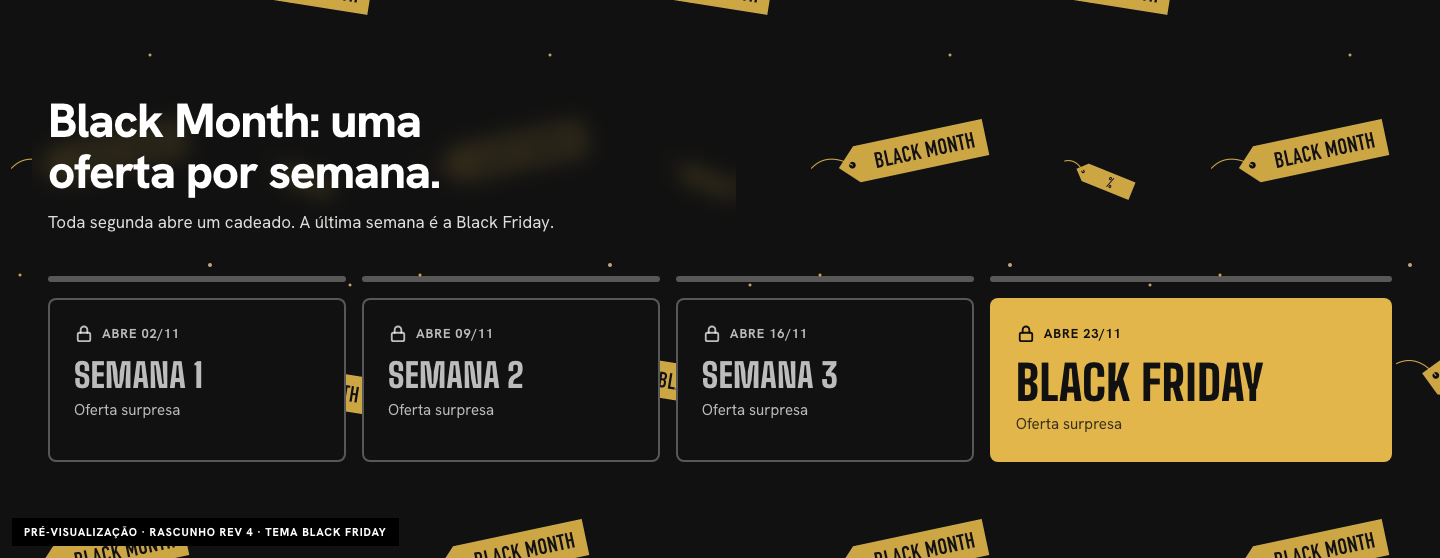
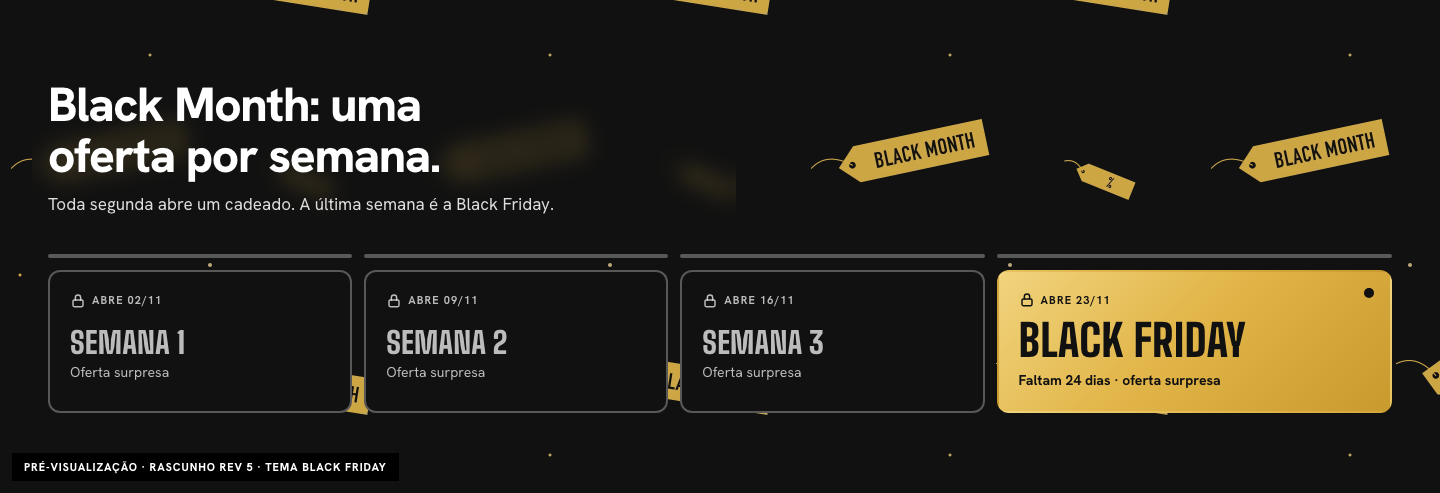
style(storefront): checkpoints mais enxutos e com acabamento premium
- Celular: só a semana em curso e a da Black Friday ficam como card completo. As semanas passadas viram uma linha com seta e
  as fechadas uma linha com o cadeado e a data. A seção caiu de ~1.400 px para 570–720 px.
- A semana em curso tem o botão cheio (a ação principal da seção) e um pulso discreto no marcador (desligado com
  prefers-reduced-motion). As semanas passadas aparecem como "Valendo", com link sublinhado.
- A Black Friday ganha o amarelo em folha (gradiente), o furo de etiqueta e a contagem de dias enquanto está fechada
  ("Faltam 13 dias · oferta surpresa").
- Desktop: espaços e títulos menores, cards de 12 px de raio, datas com números tabulares, aria-current="step" na semana
  em curso.

diff --git a/src/components/home/WeeklyCheckpoints.tsx b/src/components/home/WeeklyCheckpoints.tsx
@@ -1,4 +1,4 @@
-import type { CSSProperties } from "react";
+import type { CSSProperties, ReactNode } from "react";
 import { dayMonth, type CheckpointState } from "@/lib/site-config/checkpoints";
 
 export type CheckpointView = {
@@ -9,90 +9,179 @@ export type CheckpointView = {
   href: string | null;
   external: boolean;
   opensAt?: string;
+  /** Locked only: whole days until it opens (the countdown of the block in evidence). */
+  daysLeft?: number;
   highlight: boolean;
   state: CheckpointState;
 };
 
-/** The block in evidence (the week of Black Friday itself): the yellow of the Black Friday opening. */
+/** The yellow of the Black Friday opening: the open weeks on the bar, the week running now, the block in evidence. */
 const HIGHLIGHT = "#e2b64a";
+const NEAR_BLACK = "#111";
+/** The block in evidence: the same yellow, lit like foil (lighter at the top left, deeper at the bottom right). */
+const FOIL = "linear-gradient(135deg, #f1d47e 0%, #e2b64a 45%, #c99a2e 100%)";
 
 function Padlock({ open }: { open: boolean }) {
   return (
-    <svg aria-hidden="true" viewBox="0 0 24 24" className="h-5 w-5 shrink-0" fill="none" stroke="currentColor" strokeWidth="2.2" strokeLinecap="round" strokeLinejoin="round">
+    <svg aria-hidden="true" viewBox="0 0 24 24" className="h-4 w-4 shrink-0" fill="none" stroke="currentColor" strokeWidth="2.2" strokeLinecap="round" strokeLinejoin="round">
       <rect x="4.5" y="10.5" width="15" height="10" rx="2" />
       <path d={open ? "M8 10.5V7a4 4 0 0 1 7.6-1.7" : "M8 10.5V7a4 4 0 0 1 8 0v3.5"} />
     </svg>
   );
 }
 
+const Arrow = ({ className = "h-4 w-4" }: { className?: string }) => (
+  <svg aria-hidden="true" viewBox="0 0 24 24" className={`${className} shrink-0 transition-transform duration-200 ease-out group-hover:translate-x-0.5`} fill="none" stroke="currentColor" strokeWidth="2.4" strokeLinecap="round" strokeLinejoin="round"><path d="M5 12h14M13 6l6 6-6 6" /></svg>
+);
+
+/** The line with the padlock: "Abre 23/11", "Esta semana" or "Valendo" (an earlier week whose offer still holds). */
+function Status({ it }: { it: CheckpointView }) {
+  const text = it.state === "locked" ? `Abre ${it.opensAt ? dayMonth(it.opensAt) : "em breve"}` : it.state === "current" ? "Esta semana" : "Valendo";
+  return (
+    <span className="inline-flex items-center gap-1.5 whitespace-nowrap text-[0.6875rem] font-bold uppercase tabular-nums tracking-[0.1em]">
+      <Padlock open={it.state !== "locked"} />
+      {text}
+    </span>
+  );
+}
+
+const countdown = (days: number) => (days <= 1 ? "Falta 1 dia" : `Faltam ${days} dias`);
+const NAME = "block font-display font-extrabold uppercase leading-[0.95] tracking-[0.004em] [text-wrap:balance]";
+/** Every card: opaque (the ground's pattern never runs under a word), 12px corners, the same border weight in every state. */
+const SHELL = "rounded-xl border-2";
+
+function Pulse() {
+  return (
+    <span aria-hidden="true" className="relative flex h-2 w-2">
+      <span className="absolute inset-0 rounded-full opacity-60 motion-safe:animate-ping" style={{ background: HIGHLIGHT }} />
+      <span className="relative h-2 w-2 rounded-full" style={{ background: HIGHLIGHT }} />
+    </span>
+  );
+}
+
+/** A card that leads somewhere (`href`) or a plain block (a week that cannot be opened yet). */
+function Card({ href, external, current, className, style, children }: { href: string | null; external: boolean; current: boolean; className: string; style?: CSSProperties; children: ReactNode }) {
+  const aria = current ? { "aria-current": "step" as const } : {};
+  if (!href) return <div className={className} style={style} {...aria}>{children}</div>;
+  return (
+    <a href={href} {...(external ? { rel: "noopener" } : {})} {...aria} className={`group ${className} transition-[transform,border-color,filter] duration-200 ease-out hover:-translate-y-0.5 focus-visible:outline focus-visible:outline-2 focus-visible:outline-offset-4`} style={style}>
+      {children}
+    </a>
+  );
+}
+
 /**
- * "Checkpoints semanais": a progress bar (one segment per week, yellow once open) over one card per week. A locked week shows only its name, a
- * padlock and the day it opens (the offer is a surprise: no caption, no link); an open one shows what is on offer and leads to it; the week running
- * now says so. Phones: the cards one under the other; from 1024px, side by side, the one in evidence a little wider. Server-rendered: the lock turns
- * when the page is regenerated after Brasília midnight.
+ * "Checkpoints semanais": a progress bar (one segment per week, yellow once open) over one block per week, in the list's order.
+ *   - The week running now: a card outlined in yellow with the section's one filled button.
+ *   - The week in evidence (Black Friday): foil yellow, a little wider from 1024px, a punched hole like the tags of the ground; locked, it counts the
+ *     days ("Faltam 13 dias · oferta surpresa").
+ *   - An earlier week (its offer still holds): quieter, an underlined call.
+ *   - A locked week: only its name, a padlock and the day it opens (the offer is a surprise: no caption, no link is sent).
+ * Phones keep it short: the current and the evidence weeks as cards, every other week as one line. From 1024px, all side by side. Server-rendered:
+ * the lock turns when the page is regenerated after Brasília midnight.
  */
 export function WeeklyCheckpoints({ anchor, headingId, title, subtitle, items }: { anchor: string; headingId: string; title: string; subtitle?: string; items: CheckpointView[] }) {
   const opened = items.filter((it) => it.state !== "locked").length;
-  const cols = { "--cp-cols": items.map((it) => (it.highlight ? "1.35fr" : "1fr")).join(" "), "--cp-n": `repeat(${items.length}, minmax(0, 1fr))` } as CSSProperties;
+  const cols = { "--cp-cols": items.map((it) => (it.highlight ? "1.3fr" : "1fr")).join(" "), "--cp-n": `repeat(${items.length}, minmax(0, 1fr))` } as CSSProperties;
   return (
-    <section id={anchor} aria-labelledby={headingId} className="wrap py-14 lg:py-24" data-testid="checkpoints">
-      <div className="ground-plate mb-8 w-fit max-w-2xl lg:mb-10">
-        <h2 id={headingId} className="t-h2">{title}</h2>
-        {subtitle && <p className="t-body mt-3 text-ink-soft">{subtitle}</p>}
+    <section id={anchor} aria-labelledby={headingId} className="wrap py-12 lg:py-20" data-testid="checkpoints">
+      <div className="ground-plate mb-7 w-fit max-w-2xl lg:mb-9">
+        <h2 id={headingId} className="t-h2 [text-wrap:balance]">{title}</h2>
+        {subtitle && <p className="t-body mt-2.5 max-w-[60ch] text-ink-soft">{subtitle}</p>}
       </div>
       <div style={cols}>
         <p className="sr-only">{opened} de {items.length} semanas liberadas.</p>
-        <div aria-hidden="true" className="mb-4 grid grid-cols-[var(--cp-n)] gap-1.5 lg:grid-cols-[var(--cp-cols)] lg:gap-4">
+        <div aria-hidden="true" className="mb-3 grid grid-cols-[var(--cp-n)] gap-1.5 lg:grid-cols-[var(--cp-cols)] lg:gap-3">
           {items.map((it, i) => (
-            <span key={i} className="h-1.5 rounded-full" style={{ background: it.state === "locked" ? "var(--line)" : HIGHLIGHT }} />
+            <span key={i} className="h-1 rounded-full" style={{ background: it.state === "locked" ? "var(--line)" : HIGHLIGHT }} />
           ))}
         </div>
-        <ol className="grid gap-3 lg:grid-cols-[var(--cp-cols)] lg:gap-4">
+        <ol className="grid gap-2 lg:grid-cols-[var(--cp-cols)] lg:gap-3">
           {items.map((it, i) => {
             const locked = it.state === "locked";
-            const lit = it.highlight;
-            const body = (
-              <>
-                <span className="flex items-center justify-between gap-3">
-                  <span className={`inline-flex items-center gap-2 text-[0.8125rem] font-bold uppercase tracking-[0.06em] ${lit || locked ? "" : "text-ink-soft"}`}>
-                    <Padlock open={!locked} />
-                    {locked ? `Abre ${it.opensAt ? dayMonth(it.opensAt) : ""}` : it.state === "current" ? "Esta semana" : "Liberada"}
-                  </span>
-                  {it.state === "current" && !lit && <span aria-hidden="true" className="h-2.5 w-2.5 rounded-full" style={{ background: HIGHLIGHT }} />}
-                </span>
-                <span className={`mt-3 block font-display sm:mt-4 font-extrabold uppercase leading-[0.95] tracking-[0.004em] ${lit ? "text-[clamp(2rem,3.4vw,3rem)]" : "text-[clamp(1.6rem,2.4vw,2.1rem)]"}`}>{it.label}</span>
-                {locked ? (
-                  <span className={`mt-2 block text-[0.9375rem] ${lit ? "opacity-80" : "text-ink-mute"}`}>Oferta surpresa</span>
-                ) : (
-                  <>
-                    {it.caption && <span className={`mt-2 block text-[0.9375rem] leading-snug ${lit ? "" : "text-ink-soft"}`}>{it.caption}</span>}
-                    {it.href && (
-                      <span className="mt-5 inline-flex items-center gap-2 text-[0.8125rem] font-bold uppercase tracking-[0.04em] underline decoration-2 underline-offset-4 group-hover:no-underline">
-                        {it.cta}
-                        <svg aria-hidden="true" viewBox="0 0 24 24" className="h-4 w-4 shrink-0 transition-transform group-hover:translate-x-0.5" fill="none" stroke="currentColor" strokeWidth="2.4" strokeLinecap="round" strokeLinejoin="round"><path d="M5 12h14M13 6l6 6-6 6" /></svg>
+            const current = it.state === "current";
+            const href = locked ? null : it.href;
+
+            // The week in evidence: foil yellow, near-black text (inline: it must win over `.on-light`, which brings back the theme's own ink).
+            if (it.highlight) {
+              return (
+                <li key={i}>
+                  <Card href={href} external={it.external} current={current} className={`on-light relative flex h-full flex-col border-transparent p-5 ${SHELL} hover:brightness-105`} style={{ background: FOIL, color: NEAR_BLACK }}>
+                    {/* The punched hole of a price tag, in the ground's colour. */}
+                    <span aria-hidden="true" className="absolute right-4 top-4 h-2.5 w-2.5 rounded-full" style={{ background: "var(--plate-solid, #111)", boxShadow: "inset 0 1px 1px rgb(0 0 0 / 0.35)" }} />
+                    <Status it={it} />
+                    <span className={`${NAME} mt-3 text-[clamp(2rem,3.2vw,2.75rem)]`}>{it.label}</span>
+                    {locked ? (
+                      <span className="mt-2 block text-[0.875rem] font-bold tabular-nums">{typeof it.daysLeft === "number" ? `${countdown(it.daysLeft)} · oferta surpresa` : "Oferta surpresa"}</span>
+                    ) : (
+                      it.caption && <span className="mt-2 block max-w-[34ch] text-[0.875rem] font-medium leading-snug">{it.caption}</span>
+                    )}
+                    {href && (
+                      <span className="mt-auto block pt-4">
+                        <span className="inline-flex h-10 items-center gap-2 rounded-md px-3.5 pt-px text-[0.75rem] font-bold uppercase tracking-[0.06em] text-white" style={{ background: NEAR_BLACK }}>
+                          {it.cta}
+                          <Arrow />
+                        </span>
                       </span>
                     )}
-                  </>
-                )}
-              </>
-            );
-            // The week in evidence on its yellow with dark text; the others on the cards' own surface (the ground's colour over a pattern), the week
-            // running now outlined in yellow, the locked ones quieter.
-            // Opaque in every state (the ground's pattern never shows through a card); a locked week is quieter in its text only.
-            const card = `flex h-full flex-col rounded-lg border-2 p-4 sm:p-5 lg:p-6 ${lit ? "on-light border-transparent" : `bg-[var(--card-fill)] ${it.state === "current" ? "" : "border-[var(--line)]"}`} ${locked && !lit ? "text-ink-mute" : ""}`;
-            // The yellow card's text is always near-black (inline: it must win over `.on-light`, which brings back the theme's own ink).
-            const style: CSSProperties = lit ? { background: HIGHLIGHT, color: "#111" } : it.state === "current" ? { borderColor: HIGHLIGHT } : {};
+                  </Card>
+                </li>
+              );
+            }
+
+            // The week running now: outlined in yellow, the section's one filled button.
+            if (current) {
+              return (
+                <li key={i}>
+                  <Card href={href} external={it.external} current className={`flex h-full flex-col bg-[var(--card-fill)] p-5 ${SHELL}`} style={{ borderColor: HIGHLIGHT }}>
+                    <span className="flex items-center justify-between gap-3">
+                      <Status it={it} />
+                      <Pulse />
+                    </span>
+                    <span className={`${NAME} mt-3 text-[clamp(1.5rem,2.2vw,1.875rem)]`}>{it.label}</span>
+                    {it.caption && <span className="mt-1.5 block max-w-[34ch] text-[0.875rem] leading-snug text-ink-soft">{it.caption}</span>}
+                    {href && (
+                      <span className="mt-auto block pt-4">
+                        <span className="inline-flex h-10 items-center gap-2 rounded-md px-3.5 pt-px text-[0.75rem] font-bold uppercase tracking-[0.06em] transition-[filter] duration-200 group-hover:brightness-110" style={{ background: HIGHLIGHT, color: NEAR_BLACK }}>
+                          {it.cta}
+                          <Arrow />
+                        </span>
+                      </span>
+                    )}
+                  </Card>
+                </li>
+              );
+            }
+
+            // An earlier week (still valid) or a locked one: one line on phones, a quieter card from 1024px.
             return (
               <li key={i}>
-                {it.href && !locked ? (
-                  <a href={it.href} {...(it.external ? { rel: "noopener" } : {})} className={`group ${card} transition-transform hover:-translate-y-0.5 focus-visible:outline focus-visible:outline-2 focus-visible:outline-offset-2`} style={style}>
-                    {body}
-                  </a>
-                ) : (
-                  <div className={card} style={style}>
-                    {body}
-                  </div>
-                )}
+                <Card
+                  href={href}
+                  external={it.external}
+                  current={false}
+                  className={`flex h-full items-center justify-between gap-4 border-[var(--line)] bg-[var(--card-fill)] px-4 py-3 lg:flex-col lg:items-stretch lg:justify-start lg:p-5 ${SHELL} ${locked ? "text-ink-mute" : "hover:border-[color:var(--ink-mute)]"}`}
+                >
+                  <span className="min-w-0">
+                    <span className={`hidden lg:inline-flex ${locked ? "" : "text-ink-soft"}`}><Status it={it} /></span>
+                    <span className={`${NAME} text-[1.25rem] lg:mt-3 lg:text-[clamp(1.5rem,2.2vw,1.875rem)]`}>{it.label}</span>
+                    {locked ? (
+                      <span className="mt-1.5 hidden text-[0.875rem] lg:block">Oferta surpresa</span>
+                    ) : (
+                      it.caption && <span className="mt-1 block truncate text-[0.8125rem] text-ink-soft lg:mt-1.5 lg:whitespace-normal lg:text-[0.875rem] lg:leading-snug">{it.caption}</span>
+                    )}
+                  </span>
+                  {/* Phones: the state on the right of the line (the day of a locked week, an arrow to an open one). */}
+                  <span className="shrink-0 lg:hidden">{locked ? <Status it={it} /> : href && <Arrow className="h-5 w-5" />}</span>
+                  {!locked && href && (
+                    <span className="mt-auto hidden pt-4 lg:block">
+                      <span className="inline-flex items-center gap-2 text-[0.75rem] font-bold uppercase tracking-[0.06em] underline decoration-2 underline-offset-[6px] group-hover:no-underline">
+                        {it.cta}
+                        <Arrow />
+                      </span>
+                    </span>
+                  )}
+                </Card>
               </li>
             );
           })}

diff --git a/src/components/home/HomeSections.tsx b/src/components/home/HomeSections.tsx
@@ -298,6 +298,7 @@ export function HomeSections({
                 href: states[i] === "locked" ? null : destinationHref(t.dest, links, region),
                 external: t.dest.kind === "external" || t.dest.kind === "ink-collection",
                 ...(t.opensAt ? { opensAt: t.opensAt } : {}),
+                ...(states[i] === "locked" && t.opensAt ? { daysLeft: Math.round((Date.parse(`${t.opensAt}T12:00:00Z`) - Date.parse(`${today}T12:00:00Z`)) / 86_400_000) } : {}),
                 highlight: t.highlight === true,
                 state: states[i],
               }));
